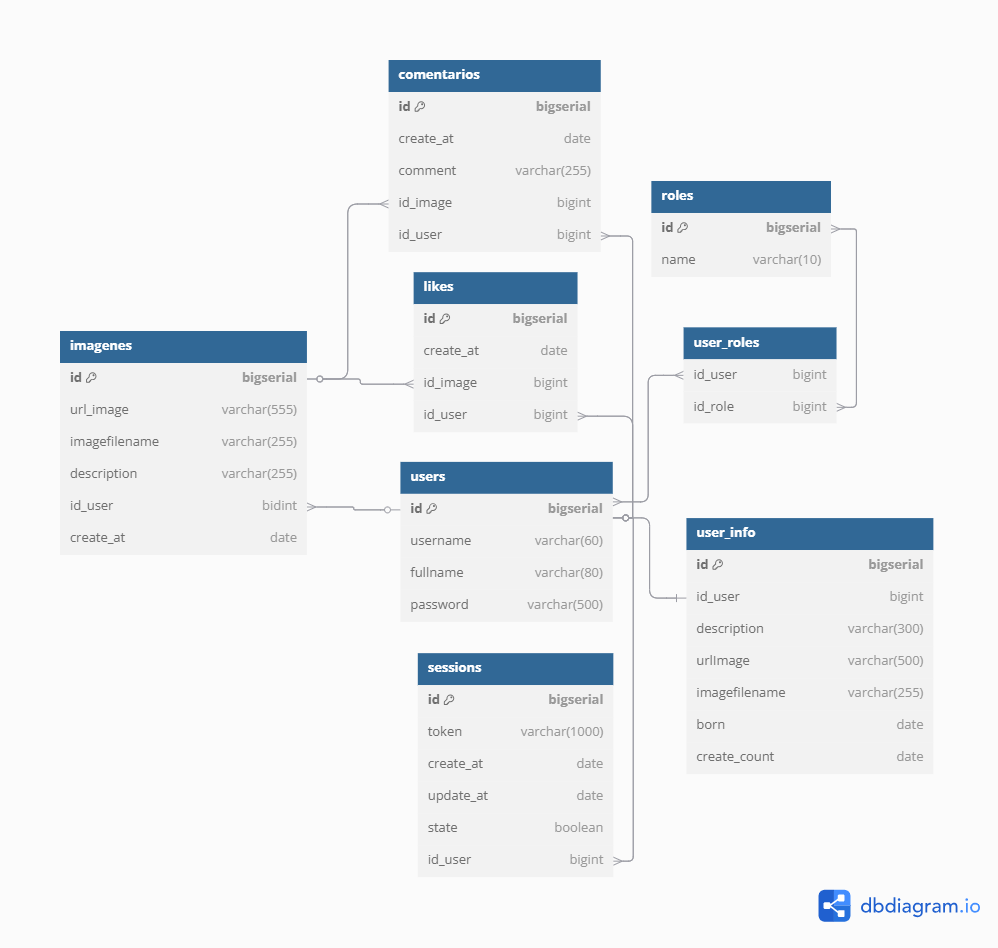
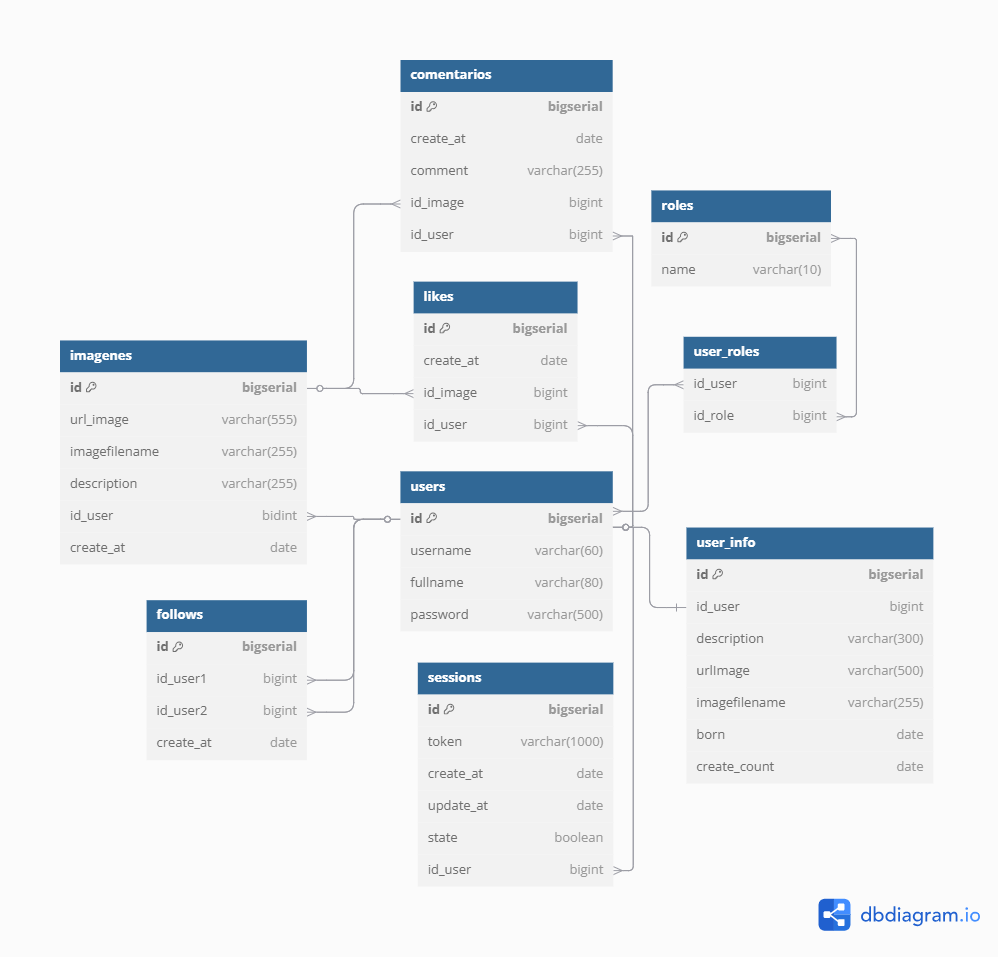
added more user functions and follows table

diff --git a/service/src/main/java/com/mysocialmedia/firebase/service/services/imp/UserServiceImp.java b/service/src/main/java/com/mysocialmedia/firebase/service/services/imp/UserServiceImp.java
@@ -1,27 +1,26 @@
 package com.mysocialmedia.firebase.service.services.imp;
 
 import com.mysocialmedia.firebase.service.exceptions.MyBadRequestException;
-import com.mysocialmedia.firebase.service.models.dtos.LoginDto;
-import com.mysocialmedia.firebase.service.models.dtos.RegisterDto;
-import com.mysocialmedia.firebase.service.models.dtos.SecurityDto;
-import com.mysocialmedia.firebase.service.models.dtos.TokenDto;
+import com.mysocialmedia.firebase.service.models.dtos.*;
 import com.mysocialmedia.firebase.service.models.entities.RoleEntity;
 import com.mysocialmedia.firebase.service.models.entities.Sessions;
+import com.mysocialmedia.firebase.service.models.entities.UserInfo;
 import com.mysocialmedia.firebase.service.models.entities.Users;
-import com.mysocialmedia.firebase.service.repositories.RoleRespository;
-import com.mysocialmedia.firebase.service.repositories.SessionRepository;
-import com.mysocialmedia.firebase.service.repositories.UserRepository;
+import com.mysocialmedia.firebase.service.repositories.*;
 import com.mysocialmedia.firebase.service.services.UserService;
 import com.mysocialmedia.firebase.service.services.utils.JwtService;
 import org.springframework.beans.factory.annotation.Autowired;
 import org.springframework.security.authentication.AuthenticationManager;
 import org.springframework.security.authentication.UsernamePasswordAuthenticationToken;
 import org.springframework.security.core.Authentication;
+import org.springframework.security.core.context.SecurityContextHolder;
 import org.springframework.security.crypto.password.PasswordEncoder;
 import org.springframework.stereotype.Service;
 import org.springframework.transaction.annotation.Transactional;
+import org.springframework.web.multipart.MultipartFile;
 
 import java.util.ArrayList;
+import java.util.Date;
 import java.util.List;
 import java.util.Optional;
 
@@ -39,6 +38,10 @@ public class UserServiceImp implements UserService {
     private JwtService jwtService;
     @Autowired
     private SessionRepository sessionRepository;
+    @Autowired
+    private UserInfoRepository userInfoRepository;
+    @Autowired
+    private FirebaseRepository firebaseRepository;
 
     @Override
     @Transactional
@@ -74,6 +77,7 @@ public class UserServiceImp implements UserService {
         RoleEntity role = roleRespository.findByName("USER")
                 .orElseThrow(()-> new RuntimeException("No existe rol"));
         roles.add(role);
+
         Users users = Users.builder()
                 .comments(new ArrayList<>())
                 .imagenes(new ArrayList<>())
@@ -82,10 +86,68 @@ public class UserServiceImp implements UserService {
                 .fullname(registerDto.getFullname())
                 .likes(new ArrayList<>())
                 .password(password).build();
-        Users newUser = userRepository.save(users);
 
+        Users newUser = userRepository.save(users);
+        UserInfo userInfo = UserInfo.builder().user(newUser).born(new Date())
+                .description("").imageFileName("").description("").urlImage("").build();
+        userInfoRepository.save(userInfo);
         return login(
                 LoginDto.builder().username(newUser.getUsername()).password(registerDto.getPassword()).build()
         );
+    }
+
+    @Override
+    @Transactional
+    public ShowFullUserDto viewUserInfo() {
+        Users user = getAuthenticationUser();
+        UserInfo userInfo = user.getUserInfo();
+        return new ShowFullUserDto(user, userInfo);
+    }
+
+    @Override
+    @Transactional
+    public ShowFullUserDto updateUserInfo(UpdateUserInfoDto userInfoDto) {
+        Users user = getAuthenticationUser();
+        UserInfo userInfo = user.getUserInfo();
+        userInfo.setBorn(userInfoDto.getBorn());
+        userInfo.setDescription(userInfoDto.getDescription());
+        UserInfo newUserinfo = userInfoRepository.save(userInfo);
+        return new ShowFullUserDto(user, newUserinfo);
+    }
+
+    @Override
+    @Transactional
+    public FirebaseDto updateProfilePicture(MultipartFile multipartFile) {
+        Users user = getAuthenticationUser();
+        UserInfo userInfo = user.getUserInfo();
+        try{
+            FirebaseDto firebaseDto = firebaseRepository.save(multipartFile);
+            firebaseRepository.deleteImage(userInfo.getImageFileName());
+            userInfo.setUrlImage(firebaseDto.getUrlImage());
+            userInfo.setImageFileName(firebaseDto.getFilename());
+            userInfoRepository.save(userInfo);
+            return firebaseDto;
+        }catch (Exception e){
+            throw new MyBadRequestException(e.getMessage());
+        }
+    }
+
+
+    @Override
+    @Transactional
+    public OnlyTitleUserDto viewUserHeader() {
+        Users user = getAuthenticationUser();
+        UserInfo userInfo = user.getUserInfo();
+        return OnlyTitleUserDto.builder()
+                .username(user.getUsername())
+                .fullname(user.getFullname())
+                .urlImage(userInfo.getUrlImage()).build();
+    }
+
+    Users getAuthenticationUser(){
+        Authentication authentication = SecurityContextHolder.getContext().getAuthentication();
+        String username = (String) authentication.getPrincipal();
+        return userRepository.findByUsername(username)
+                .orElseThrow(()-> new RuntimeException("No existe el usuario autenticado"));
     }
 }

diff --git a/service/src/main/java/com/mysocialmedia/firebase/service/controllers/UserController.java b/service/src/main/java/com/mysocialmedia/firebase/service/controllers/UserController.java
@@ -5,10 +5,7 @@ import com.mysocialmedia.firebase.service.models.dtos.RegisterDto;
 import com.mysocialmedia.firebase.service.services.UserService;
 import org.springframework.beans.factory.annotation.Autowired;
 import org.springframework.http.ResponseEntity;
-import org.springframework.web.bind.annotation.PostMapping;
-import org.springframework.web.bind.annotation.RequestBody;
-import org.springframework.web.bind.annotation.RequestMapping;
-import org.springframework.web.bind.annotation.RestController;
+import org.springframework.web.bind.annotation.*;
 
 @RestController
 @RequestMapping("/api/user")
@@ -26,4 +23,14 @@ public class UserController {
     public ResponseEntity<?> register(@RequestBody RegisterDto registerDto){
         return ResponseEntity.ok(userService.register(registerDto));
     }
+
+    @GetMapping("/userinfo")
+    public ResponseEntity<?> findMyUserInfo(){
+        return ResponseEntity.ok(userService.viewUserInfo());
+    }
+    @GetMapping("/headeruser")
+    public ResponseEntity<?> getHeaderUser(){
+        return ResponseEntity.ok(userService.viewUserHeader());
+    }
+
 }

diff --git a/service/src/main/java/com/mysocialmedia/firebase/service/models/dtos/ShowFullUserDto.java b/service/src/main/java/com/mysocialmedia/firebase/service/models/dtos/ShowFullUserDto.java
@@ -1,0 +1,32 @@
+package com.mysocialmedia.firebase.service.models.dtos;
+
+import com.mysocialmedia.firebase.service.models.entities.UserInfo;
+import com.mysocialmedia.firebase.service.models.entities.Users;
+import lombok.AllArgsConstructor;
+import lombok.Builder;
+import lombok.Data;
+import lombok.NoArgsConstructor;
+
+import java.util.Date;
+
+@Data
+@AllArgsConstructor
+@NoArgsConstructor
+@Builder
+public class ShowFullUserDto {
+    private String username;
+    private String fullname;
+    private String description;
+    private String urlImage;
+    private Date born;
+    private Date createCount;
+
+    public ShowFullUserDto(Users user, UserInfo userInfo){
+        this.username = user.getUsername();
+        this.fullname = user.getFullname();
+        this.description = userInfo.getDescription();
+        this.urlImage = userInfo.getUrlImage();
+        this.born = userInfo.getBorn();
+        this.createCount = userInfo.getCreateCount();
+    }
+}

diff --git a/service/src/main/java/com/mysocialmedia/firebase/service/models/entities/Users.java b/service/src/main/java/com/mysocialmedia/firebase/service/models/entities/Users.java
@@ -1,5 +1,6 @@
 package com.mysocialmedia.firebase.service.models.entities;
 
+import com.fasterxml.jackson.annotation.JsonIgnore;
 import jakarta.persistence.*;
 import lombok.AllArgsConstructor;
 import lombok.Builder;
@@ -23,6 +24,7 @@ public class Users {
     @Column(length = 80)
     private String fullname;
     @Column(length = 500)
+    @JsonIgnore
     private String password;
     private Boolean enabled;
 
@@ -49,6 +51,12 @@ public class Users {
 
     @OneToMany(mappedBy = "user", cascade = CascadeType.ALL, orphanRemoval = true)
     private List<Comments> comments;
+
+    @OneToMany(mappedBy = "mainUser" , cascade = CascadeType.ALL, orphanRemoval = true)
+    private List<Follows> followings;
+
+    @OneToMany(mappedBy = "followingUser" , cascade = CascadeType.ALL, orphanRemoval = true)
+    private List<Follows> followers;
 
     @PrePersist
     public void prepersist(){

diff --git a/service/src/main/java/com/mysocialmedia/firebase/service/repositories/FollowRepository.java b/service/src/main/java/com/mysocialmedia/firebase/service/repositories/FollowRepository.java
@@ -1,0 +1,18 @@
+package com.mysocialmedia.firebase.service.repositories;
+
+import com.mysocialmedia.firebase.service.models.entities.Follows;
+import org.springframework.data.jpa.repository.Query;
+import org.springframework.data.repository.CrudRepository;
+
+import java.util.Optional;
+
+public interface FollowRepository extends CrudRepository<Follows, Long> {
+
+    @Query("select p from Follows p where p.mainUser.username = ?1 and p.followingUser.username=?2")
+    Boolean findUserAndFollowing(String useranme1, String username2);
+
+    @Query("select count(*) from Follows p where p.mainUser.username = ?1 ")
+    Integer findFollowingsByUsername(String username);
+    @Query("select p from Follows p where p.mainUser.username = ?1 and p.followingUser.username=?2")
+    Integer findFollowersByUsername(String username);
+}

diff --git a/service/src/main/java/com/mysocialmedia/firebase/service/services/UserService.java b/service/src/main/java/com/mysocialmedia/firebase/service/services/UserService.java
@@ -1,11 +1,13 @@
 package com.mysocialmedia.firebase.service.services;
 
-import com.mysocialmedia.firebase.service.models.dtos.LoginDto;
-import com.mysocialmedia.firebase.service.models.dtos.RegisterDto;
-import com.mysocialmedia.firebase.service.models.dtos.TokenDto;
+import com.mysocialmedia.firebase.service.models.dtos.*;
+import org.springframework.web.multipart.MultipartFile;
 
 public interface UserService {
     TokenDto login(LoginDto loginDto);
     TokenDto register(RegisterDto registerDto);
-
+    ShowFullUserDto viewUserInfo();
+    ShowFullUserDto updateUserInfo(UpdateUserInfoDto userInfoDto);
+    FirebaseDto updateProfilePicture(MultipartFile multipartFile);
+    OnlyTitleUserDto viewUserHeader();
 }

diff --git a/service/src/main/java/com/mysocialmedia/firebase/service/models/entities/Follows.java b/service/src/main/java/com/mysocialmedia/firebase/service/models/entities/Follows.java
@@ -1,0 +1,28 @@
+package com.mysocialmedia.firebase.service.models.entities;
+
+import jakarta.persistence.*;
+import lombok.AllArgsConstructor;
+import lombok.Builder;
+import lombok.Data;
+import lombok.NoArgsConstructor;
+
+
+@Entity
+@Table(name = "follows")
+@Data
+@AllArgsConstructor
+@NoArgsConstructor
+@Builder
+public class Follows {
+    @Id
+    @GeneratedValue(strategy = GenerationType.IDENTITY)
+    private Long id;
+
+    @ManyToOne
+    @JoinColumn(name = "id_user1")
+    private Users mainUser;
+    @ManyToOne
+    @JoinColumn(name = "id_user2")
+    private Users followingUser;
+
+}

diff --git a/service/src/main/java/com/mysocialmedia/firebase/service/repositories/UserInfoRepository.java b/service/src/main/java/com/mysocialmedia/firebase/service/repositories/UserInfoRepository.java
@@ -1,7 +1,12 @@
 package com.mysocialmedia.firebase.service.repositories;
 
 import com.mysocialmedia.firebase.service.models.entities.UserInfo;
+import org.springframework.data.jpa.repository.Query;
 import org.springframework.data.repository.CrudRepository;
 
+import java.util.Optional;
+
 public interface UserInfoRepository extends CrudRepository<UserInfo, Long> {
+    @Query("select u from UserInfo u where u.user.username=?1")
+    Optional<UserInfo> findByUsername(String username);
 }

diff --git a/service/src/main/java/com/mysocialmedia/firebase/service/security/SecurityConfig.java b/service/src/main/java/com/mysocialmedia/firebase/service/security/SecurityConfig.java
@@ -52,11 +52,8 @@ public class SecurityConfig {
 
     @Bean
     CommandLineRunner commandLineRunner(InitialService initialService){
-        return new CommandLineRunner() {
-            @Override
-            public void run(String... args) throws Exception {
-                initialService.generateInformation();
-            }
+        return arg -> {
+            initialService.generateInformation();
         };
     }
 }

diff --git a/service/src/main/java/com/mysocialmedia/firebase/service/models/dtos/OnlyTitleUserDto.java b/service/src/main/java/com/mysocialmedia/firebase/service/models/dtos/OnlyTitleUserDto.java
@@ -1,0 +1,16 @@
+package com.mysocialmedia.firebase.service.models.dtos;
+
+import lombok.AllArgsConstructor;
+import lombok.Builder;
+import lombok.Data;
+import lombok.NoArgsConstructor;
+
+@Data
+@AllArgsConstructor
+@NoArgsConstructor
+@Builder
+public class OnlyTitleUserDto {
+    private String username;
+    private String fullname;
+    private String urlImage;
+}

diff --git a/service/src/main/java/com/mysocialmedia/firebase/service/models/dtos/UpdateUserInfoDto.java b/service/src/main/java/com/mysocialmedia/firebase/service/models/dtos/UpdateUserInfoDto.java
@@ -1,0 +1,17 @@
+package com.mysocialmedia.firebase.service.models.dtos;
+
+import lombok.AllArgsConstructor;
+import lombok.Builder;
+import lombok.Data;
+import lombok.NoArgsConstructor;
+
+import java.util.Date;
+
+@Data
+@AllArgsConstructor
+@NoArgsConstructor
+@Builder
+public class UpdateUserInfoDto {
+    private String description;
+    private Date born;
+}
